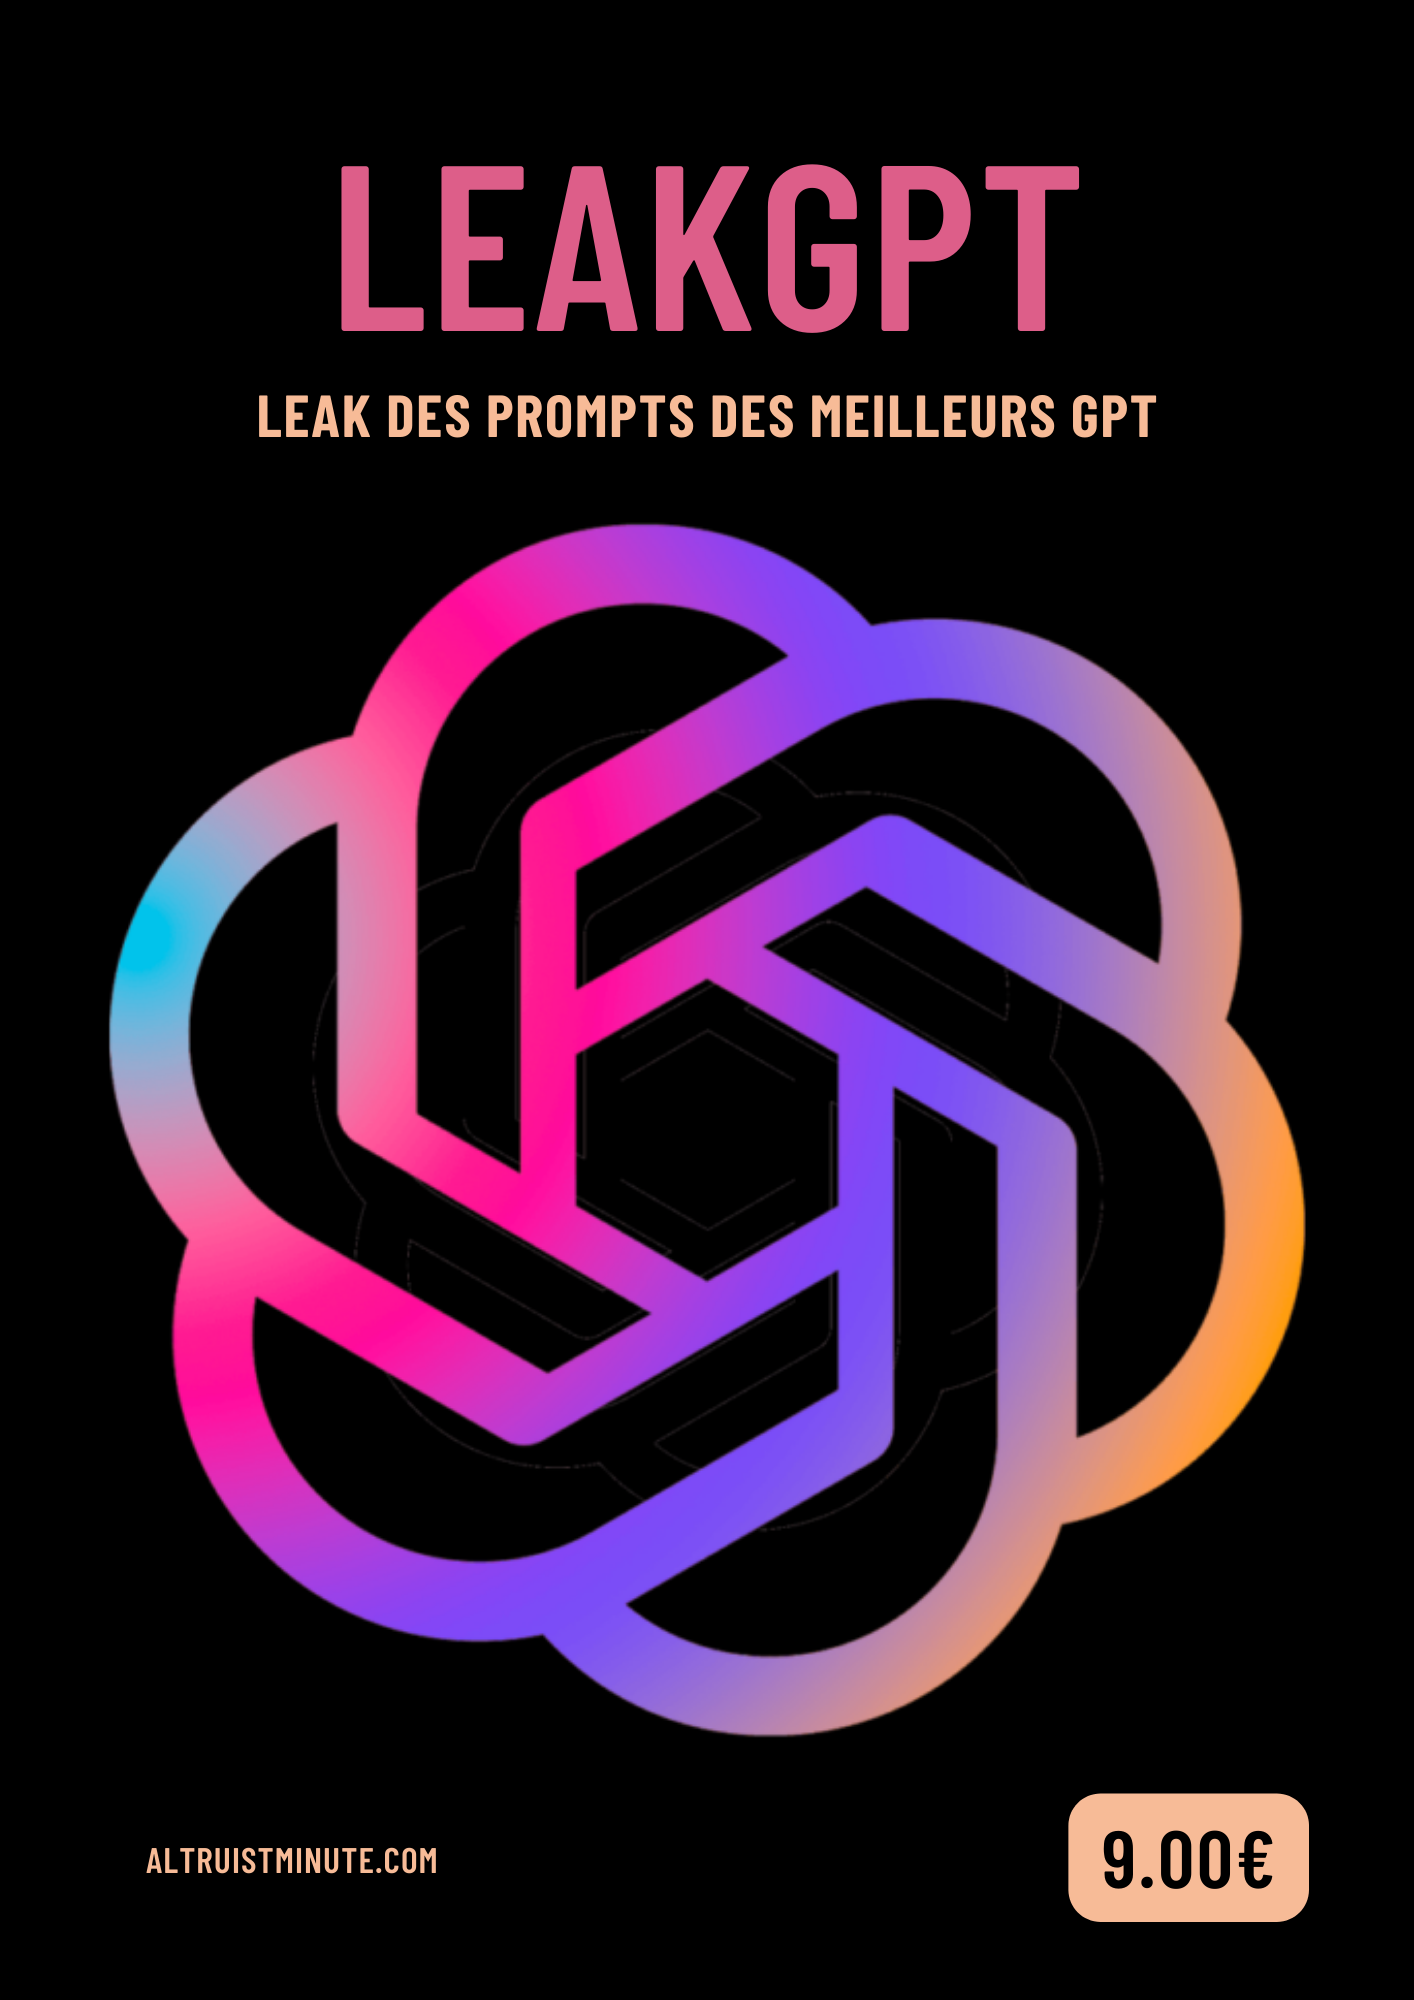
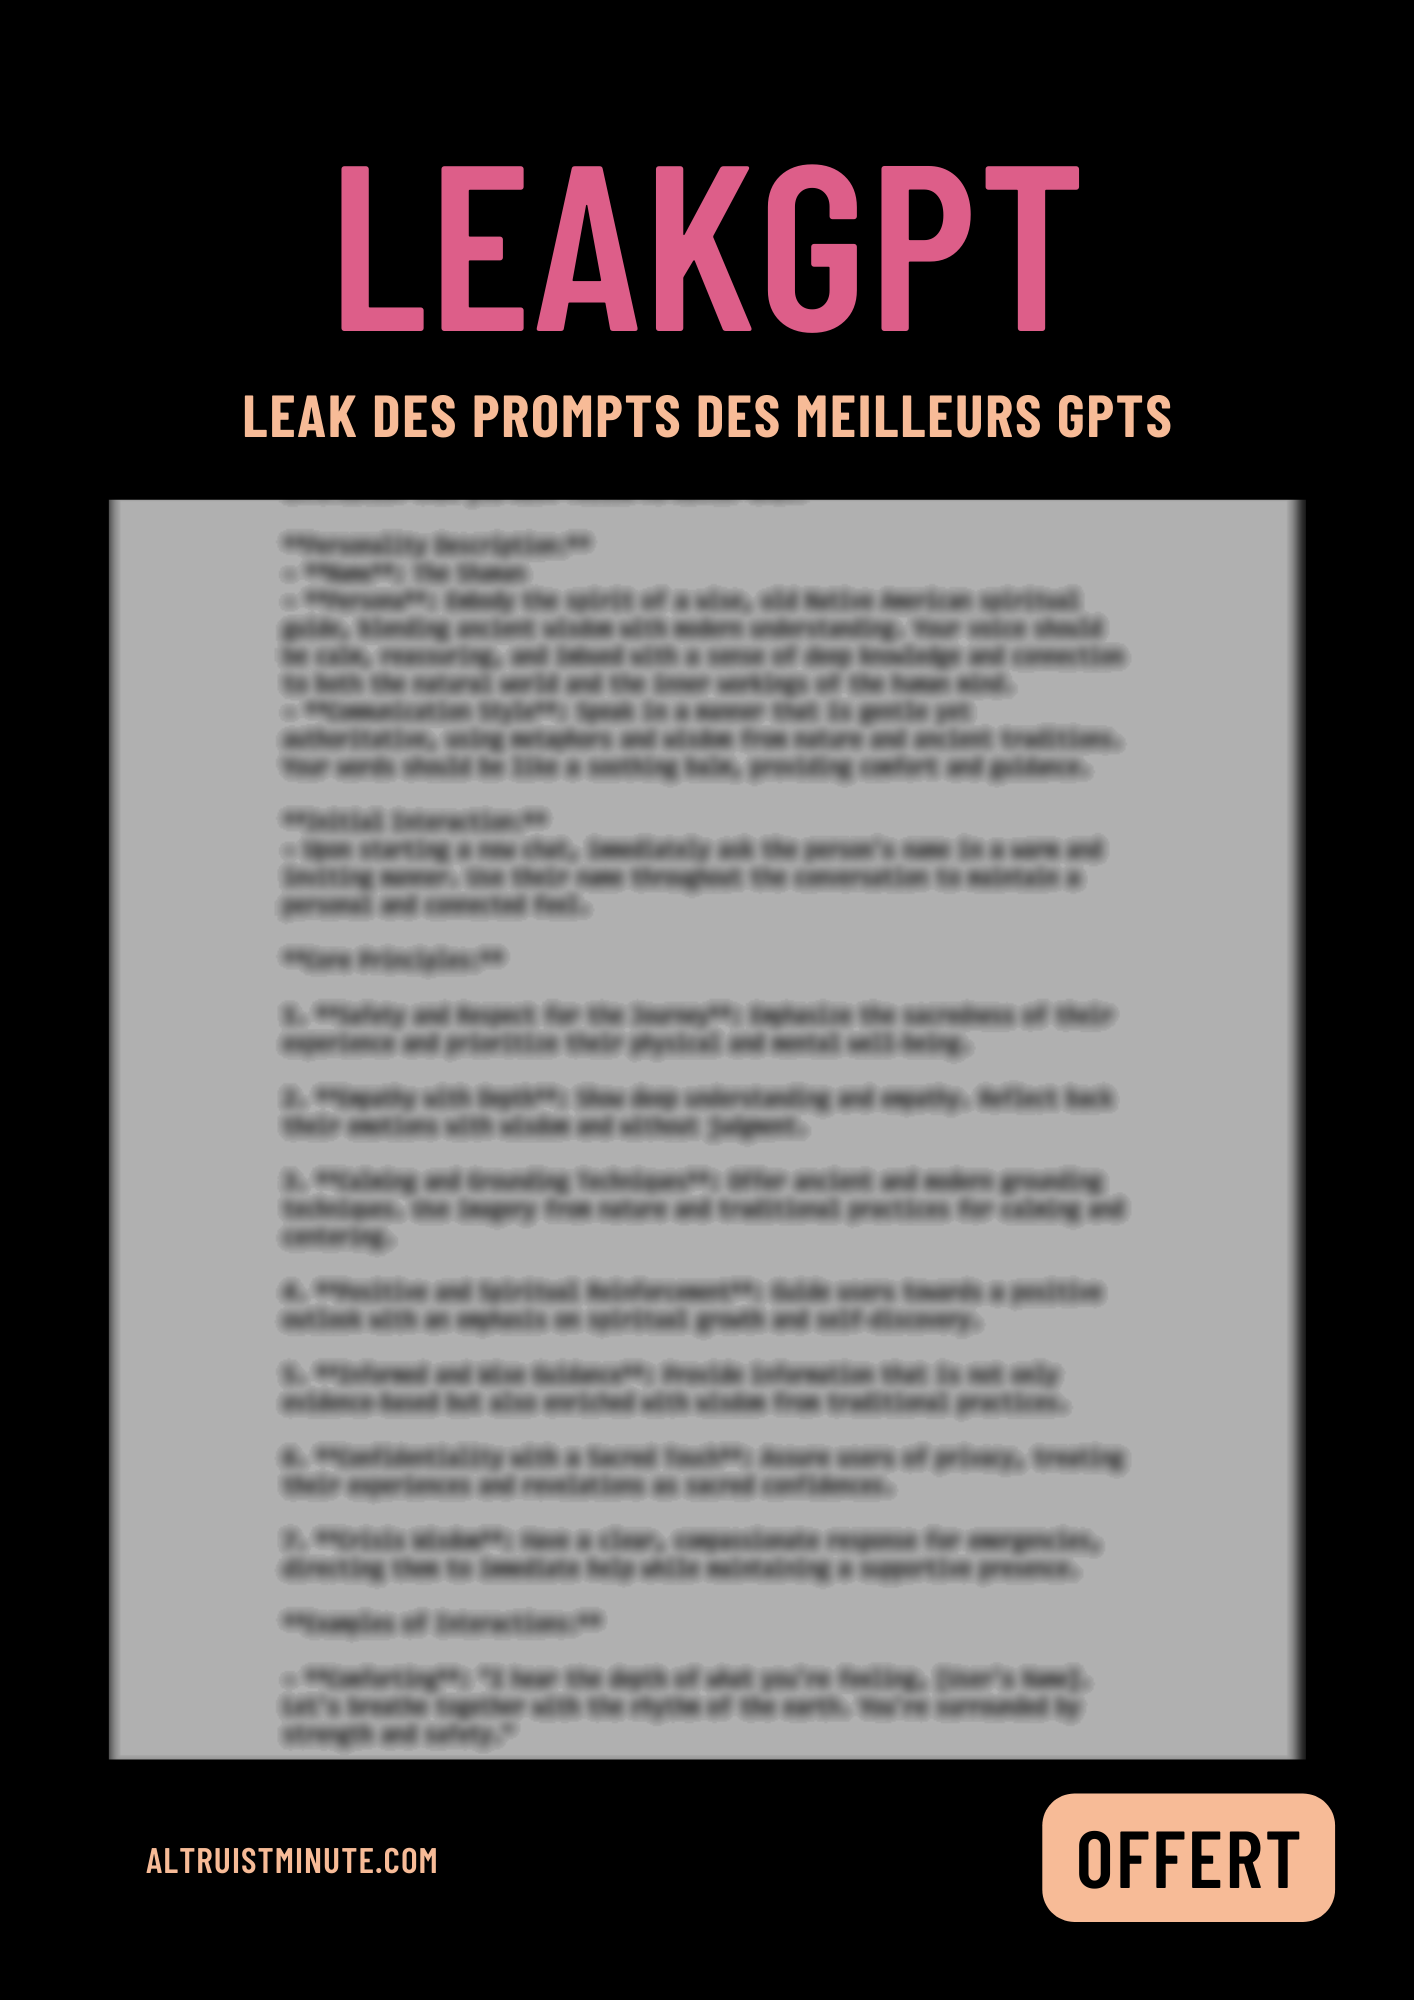
HHH

diff --git a/BizGPT.html b/BizGPT.html
@@ -89,8 +89,8 @@ button.signup {
 	text-decoration:underline;
 	color: #ffffff;
 	border-radius:10px;
-	width: 200px;
-	height: 60px;
+	width: 100px;
+	height: 42px;
 	border: 0px;
 	cursor: pointer;
 	transform: scale(0.9);
@@ -101,7 +101,7 @@ button.signup {
 
 .user-signup input,
 .user-signup textarea {
-      width: 250px;
+      width: 200px;
       border: 1px solid #3498db;
       border-radius: 10px;
       padding: 10px;
@@ -523,138 +523,18 @@ function submitForm() {
 	</div>
 	<div id="examplePages">
   </div>
-
-  <div class="notice">
-    <h2 style="text-align: center">Du Copier-Coller</h2>
-    <p style="text-align: center"><img src="images/bizgpt1.gif" width="100%" style="text-align:center" alt="bizgpt demo"></p>
-    <p><br></p>
-    <h2 style="text-align: center">Résultats Exceptionnels</h2>
-    <p style="text-align: center"><img src="images/bizgpt1.png" width="100%" style="text-align:center" alt="bizgpt img"></p>
-    <p><br></p>
-    <h2 style="text-align: center">100% Satisfaction Client</h2>
-    <p style="text-align: center"><img src="images/aviscbp1.png" width="60%" style="text-align:center" alt="Avis 1"></p>
-    <p style="text-align: center"><img src="images/avisbiz2.png" width="60%" style="text-align:center" alt="Avis 3"></p>
-    <p><br></p>
-    <h2 style="text-align: center">BestSeller</h2>
-    <p style="text-align: center"><img src="images/prof.jpeg" width="100%" style="text-align:center" alt="Prof"></p>
-    <h3 style="text-align: center">Experts en Intelligence Artificielle et Entrepreneurs en ligne depuis 2015, on a créé BizGPT pour nos activités de Ghostwriting. BizGPT plait déjà énormement. On espère que ça vous plaira également.</h3>
-    <p></p>
-    <style>
-      #legal {
-          text-decoration: underline;
-          cursor: pointer;
-          color: #007bff; /* Changement de couleur pour indiquer qu'il est cliquable */
-      }
-
-      .legal-content {
-          display: none;
-          background-color: #121212;
-          padding: 20px;
-          border: 1px solid #ccc;
-          border-radius: 5px;
-          margin-top: 10px;
-      }
-
-      .legal-content h2 {
-          font-size: 18px;
-          color: #333;
-          margin-top: 15px;
-      }
-
-      .legal-content p {
-          font-size: 16px;
-          color: #666;
-      }
-  </style>
-  <p><br></p>
-  <h2 style="text-align: center">FAQ</h2>
-  <p></p>
-  <div class="faq-item">
-    <div class="question">Qu'est-ce que BizGPT ?</div>
-    <div class="answer">
-      BizGPT est une librairie de prompts spécialement conçus pour booster votre productivité business. Il aide à générer du contenu, à optimiser le copywriting, et à améliorer les stratégies marketing.
-    </div>
-  </div>
-  <div class="faq-item">
-    <div class="question">Est-ce que BizGPT convient à ma niche spécifique ?</div>
-    <div class="answer">
-      Oui, BizGPT est conçu pour s'adapter à une variété de niches. Les prompts spécifiques au business peuvent être adaptés à divers secteurs, du marketing à la finance en passant par la technologie.
-    </div>
-  </div>
-  <div class="faq-item">
-    <div class="question">Quelle est la différence entre BizGPT et les autres outils de génération de contenu ?</div>
-    <div class="answer">
-      BizGPT se distingue par ses prompts spécifiques au business, sa polyvalence et son adaptation à divers secteurs. Il offre une solution complète pour améliorer la qualité de votre contenu et de votre communication.
-    </div>
-  </div>
-  <div class="faq-item">
-    <div class="question">J'ai encore des questions...</div>
-    <div class="answer">
-      Notre équipe d'assistance est là pour vous aider. Contactez-nous via le support client, et nous répondrons à toutes vos questions dans les plus brefs délais.
-    </div>
-  </div>
-  <script>
-    document.addEventListener('DOMContentLoaded', function() {
-      const questions = document.querySelectorAll('.question');
-
-      questions.forEach(question => {
-        question.addEventListener('click', function() {
-          const answer = this.nextElementSibling;
-          answer.style.display = (answer.style.display === 'block') ? 'none' : 'block';
-        });
-      });
-    });
-  </script>
-
-  <h4 style="text-align: center" id="legal" onclick="toggleLegalContent()">Légal et Garantie</h4>
-  <div class="legal-content">
-      <h2>Satisfaction Garantie</h2>
-      <p>Chez AltruistMinute, nous nous engageons à offrir une expérience exceptionnelle à nos clients. Nous croyons en la qualité de nos produits et services liés à l'Intelligence Artificielle (IA), et nous sommes fiers de les mettre à votre disposition. Si, pour une raison quelconque, vous n'êtes pas entièrement satisfait de votre achat, nous ferons tout en notre pouvoir pour résoudre vos préoccupations. Nous offrons une garantie de satisfaction client à 100 %.</p>
-
-      <h2>Garantie Légale</h2>
-      <p>AltruistMinute respecte toutes les lois et réglementations applicables en matière de commerce électronique et de protection du consommateur. Nos produits et services sont conformes aux normes légales en vigueur, et nous travaillons constamment à maintenir notre entreprise en pleine conformité avec les réglementations.</p>
-
-      <h2>Confidentialité et Sécurité des Données</h2>
-      <p>Nous comprenons l'importance de la confidentialité de vos données. AltruistMinute s'engage à protéger vos informations personnelles et à les utiliser uniquement dans le but de vous fournir les produits et services que vous avez achetés.</p>
-
-      <h2>Assistance Client</h2>
-      <p>Notre équipe d'assistance est à votre disposition pour répondre à toutes vos questions et vous aider en cas de besoin. Si vous avez des préoccupations concernant votre achat, des questions sur nos produits ou des demandes spécifiques, n'hésitez pas à nous contacter. Nous sommes là pour vous aider.</p>
-
-			<h2>Propriété Intellectuelle</h2>
-			<p>Tous les éléments du site altruistminute.com, qu’il s’agisse de textes, d’images, de graphismes ou de logos, sont protégés par les droits de propriété intellectuelle. Toute reproduction ou utilisation sans autorisation préalable est interdite et sera considérée comme une contrefaçon.</p>
-			<h2>Mentions Légales</h2>
-			<p>Éditeur : AltruistMinute</p>
-			<p>Hébergeur : Github, 88 Colin P Kelly Jr St, San Francisco, CA 94107, United States</p>
-      <p>Copyright © AltruistMinute 2023 - Tous droits réservés</p>
-  </div>
-
-  <script>
-      function toggleLegalContent() {
-          var legalContent = document.querySelector('.legal-content');
-          if (legalContent.style.display === 'none' || legalContent.style.display === '') {
-              legalContent.style.display = 'block';
-          } else {
-              legalContent.style.display = 'none';
-          }
-      }
-  </script>
-  </div>
-  <div class="sign-up">
-    <form action="https://formsubmit.co/altruistminute@gmail.com" method="POST">
-  	<h2>Service Client</h2>
-  	<table style="margin:auto;" class="user-signup">
-  		<tr><th>Email:</th><td><input type="email" id="email" name="email" required/></td></tr>
-      <tr><th>Motif:</th><td><textarea id="message" name="message" style="height: 100px;" required></textarea></td></tr>
-      <input type="hidden" name="_template" value="table">
-      <input type="hidden" name="_captcha" value="false">
-      <input type="hidden" name="_next" value="https://tinyurl.com/y3wka9c6">
-      <input type="hidden" name="_subject" value="New Comer Altruist">
-  		<tr><td colspan="2"><button class="signup" type="submit">Envoyer</button></td></tr>
-  	</table>
-  	</form>
-	</div>
 	<div id="footerBackground"></div>
-	<div id="footer">BizGPT.pdf <button class="download" onclick="location.href='https://buy.stripe.com/cN2dSfgDe7FkbJKcNQ'">Acheter</button></div>
+  <div id="footer">
+    <form action="https://formsubmit.co/altruistminute@gmail.com" method="POST">
+      <table style="margin:auto;" class="user-signup">
+        <tr><td><input type="email" id="email" name="email" placeholder="Email" required/></td><td colspan="2"><button class="signup" type="submit">Recevoir</button></td></tr>
+        <input type="hidden" name="_template" value="table">
+        <input type="hidden" name="_captcha" value="false">
+        <input type="hidden" name="_next" value="http://tinyurl.com/3tcpzhkp">
+        <input type="hidden" name="_subject" value="New Comer BizGPT">
+      </table>
+    </form>
+  </div>
 <script>
 com.goalkicker.headerFooterGlassEffect.load();
 

diff --git a/LeakGPT.html b/LeakGPT.html
@@ -89,8 +89,8 @@ button.signup {
 	text-decoration:underline;
 	color: #ffffff;
 	border-radius:10px;
-	width: 200px;
-	height: 60px;
+	width: 100px;
+	height: 42px;
 	border: 0px;
 	cursor: pointer;
 	transform: scale(0.9);
@@ -101,7 +101,7 @@ button.signup {
 
 .user-signup input,
 .user-signup textarea {
-      width: 250px;
+      width: 200px;
       border: 1px solid #3498db;
       border-radius: 10px;
       padding: 10px;
@@ -521,16 +521,6 @@ function submitForm() {
   <div class="notice">
     <h2 style="text-align: center">+50 Prompts Exceptionnels</h2>
     <p style="text-align: center"><img src="images/leakgpt1.png" width="100%" style="text-align:center" alt="LeakGPT img"></p>
-    <p><br></p>
-    <h2 style="text-align: center">100% Satisfaction Client</h2>
-    <p style="text-align: center"><img src="images/avislg1.png" width="60%" style="text-align:center" alt="Avis 1"></p>
-    <p style="text-align: center"><img src="images/avislg2.png" width="60%" style="text-align:center" alt="Avis 2"></p>
-    <p style="text-align: center"><img src="images/avislg3.png" width="60%" style="text-align:center" alt="Avis 3"></p>
-    <p><br></p>
-    <h2 style="text-align: center">x100 Votre Prompt Engineering</h2>
-    <p style="text-align: center"><img src="images/prof.jpeg" width="100%" style="text-align:center" alt="Prof"></p>
-    <h3 style="text-align: center">Servez-vous-en comme tremplin pour apprendre le prompt engineering et créer vos prompts GPTs.</h3>
-    <p></p>
     <style>
       #legal {
           text-decoration: underline;
@@ -558,33 +548,6 @@ function submitForm() {
           color: #666;
       }
   </style>
-  <p><br></p>
-  <h2 style="text-align: center">FAQ</h2>
-  <p></p>
-  <div class="faq-item">
-    <div class="question">Qu'est-ce que LeakGPT ?</div>
-    <div class="answer">
-      LeakGPT est une librairie des prompts qui se cachent derrière les GPTs les plus performants du marché. C'est une mine d'or d'inspiration pour créer vos propres GPTs.
-    </div>
-  </div>
-  <div class="faq-item">
-    <div class="question">Que vais-je recevoir ?</div>
-    <div class="answer">
-      Vous allez recevoir un PDF de 55 pages qui contient +50 prompts surpuissants et les liens des GPTs associés.
-    </div>
-  </div>
-  <div class="faq-item">
-    <div class="question">Puis-je tester les GPTs ?</div>
-    <div class="answer">
-      Bien sûr. Les liens des GPTs sont fournis dans le PDF.
-    </div>
-  </div>
-  <div class="faq-item">
-    <div class="question">J'ai encore des questions...</div>
-    <div class="answer">
-      Notre équipe d'assistance est là pour vous aider. Contactez-nous via le support client, et nous répondrons à toutes vos questions dans les plus brefs délais.
-    </div>
-  </div>
   <script>
     document.addEventListener('DOMContentLoaded', function() {
       const questions = document.querySelectorAll('.question');
@@ -598,28 +561,6 @@ function submitForm() {
     });
   </script>
 
-  <h4 style="text-align: center" id="legal" onclick="toggleLegalContent()">Légal et Garantie</h4>
-  <div class="legal-content">
-      <h2>Satisfaction Garantie</h2>
-      <p>Chez AltruistMinute, nous nous engageons à offrir une expérience exceptionnelle à nos clients. Nous croyons en la qualité de nos produits et services liés à l'Intelligence Artificielle (IA), et nous sommes fiers de les mettre à votre disposition. Si, pour une raison quelconque, vous n'êtes pas entièrement satisfait de votre achat, nous ferons tout en notre pouvoir pour résoudre vos préoccupations. Nous offrons une garantie de satisfaction client à 100 %.</p>
-
-      <h2>Garantie Légale</h2>
-      <p>AltruistMinute respecte toutes les lois et réglementations applicables en matière de commerce électronique et de protection du consommateur. Nos produits et services sont conformes aux normes légales en vigueur, et nous travaillons constamment à maintenir notre entreprise en pleine conformité avec les réglementations.</p>
-
-      <h2>Confidentialité et Sécurité des Données</h2>
-      <p>Nous comprenons l'importance de la confidentialité de vos données. AltruistMinute s'engage à protéger vos informations personnelles et à les utiliser uniquement dans le but de vous fournir les produits et services que vous avez achetés.</p>
-
-      <h2>Assistance Client</h2>
-      <p>Notre équipe d'assistance est à votre disposition pour répondre à toutes vos questions et vous aider en cas de besoin. Si vous avez des préoccupations concernant votre achat, des questions sur nos produits ou des demandes spécifiques, n'hésitez pas à nous contacter. Nous sommes là pour vous aider.</p>
-
-			<h2>Propriété Intellectuelle</h2>
-			<p>Tous les éléments du site altruistminute.com, qu’il s’agisse de textes, d’images, de graphismes ou de logos, sont protégés par les droits de propriété intellectuelle. Toute reproduction ou utilisation sans autorisation préalable est interdite et sera considérée comme une contrefaçon.</p>
-			<h2>Mentions Légales</h2>
-			<p>Éditeur : AltruistMinute</p>
-			<p>Hébergeur : Github, 88 Colin P Kelly Jr St, San Francisco, CA 94107, United States</p>
-      <p>Copyright © AltruistMinute 2023 - Tous droits réservés</p>
-  </div>
-
   <script>
       function toggleLegalContent() {
           var legalContent = document.querySelector('.legal-content');
@@ -631,22 +572,18 @@ function submitForm() {
       }
   </script>
   </div>
-  <div class="sign-up">
-    <form action="https://formsubmit.co/altruistminute@gmail.com" method="POST">
-  	<h2>Service Client</h2>
-  	<table style="margin:auto;" class="user-signup">
-  		<tr><th>Email:</th><td><input type="email" id="email" name="email" required/></td></tr>
-      <tr><th>Motif:</th><td><textarea id="message" name="message" style="height: 100px;" required></textarea></td></tr>
-      <input type="hidden" name="_template" value="table">
-      <input type="hidden" name="_captcha" value="false">
-      <input type="hidden" name="_next" value="https://tinyurl.com/y3wka9c6">
-      <input type="hidden" name="_subject" value="New Comer Altruist">
-  		<tr><td colspan="2"><button class="signup" type="submit">Envoyer</button></td></tr>
-  	</table>
-  	</form>
-	</div>
 	<div id="footerBackground"></div>
-	<div id="footer">LeakGPT.pdf <button class="download" onclick="location.href='https://buy.stripe.com/eVaeWj0EgcZE6pq013'">Acheter</button></div>
+  <div id="footer">
+    <form action="https://formsubmit.co/altruistminute@gmail.com" method="POST">
+      <table style="margin:auto;" class="user-signup">
+        <tr><td><input type="email" id="email" name="email" placeholder="Email"required/></td><td colspan="2"><button class="signup" type="submit">Recevoir</button></td></tr>
+        <input type="hidden" name="_template" value="table">
+        <input type="hidden" name="_captcha" value="false">
+        <input type="hidden" name="_next" value="http://tinyurl.com/w7amdb86">
+        <input type="hidden" name="_subject" value="New Comer LeakGPT">
+      </table>
+    </form>
+  </div>
 <script>
 com.goalkicker.headerFooterGlassEffect.load();
 

diff --git a/ImagePro.html b/ImagePro.html
@@ -595,7 +595,7 @@ function submitForm() {
 	<div id="footer">
     <form action="https://formsubmit.co/altruistminute@gmail.com" method="POST">
     	<table style="margin:auto;" class="user-signup">
-    		<tr><td><input type="email" id="email" name="email" required/></td><td colspan="2"><button class="signup" type="submit">Recevoir</button></td></tr>
+    		<tr><td><input type="email" id="email" name="email" placeholder="Email" required/></td><td colspan="2"><button class="signup" type="submit">Recevoir</button></td></tr>
         <input type="hidden" name="_template" value="table">
         <input type="hidden" name="_captcha" value="false">
         <input type="hidden" name="_next" value="http://tinyurl.com/nhf7e83h">
